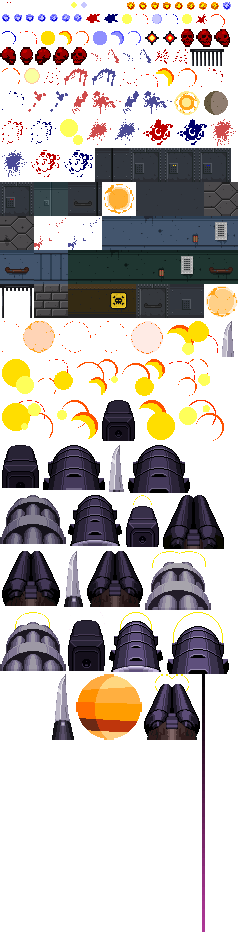
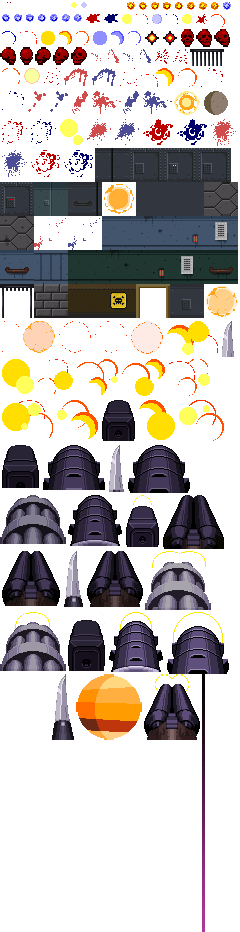
Fixed reverse door shape

Changed region(s): [[0.5542, 0.28, 0.7292, 0.3423]]

diff --git a/src/assets/scripts/components/Game/engine/components/Door/index.js b/src/assets/scripts/components/Game/engine/components/Door/index.js
@@ -240,17 +240,21 @@ class Door extends DynamicCell {
 
   get shape() {
     if (this.axis === 'y') {
+      const offsetX = this.reverse ? this.offset.x : CELL_SIZE - this.offset.x + this.width;
+
       return {
-        x: this.x - HALF_CELL_SIZE + (CELL_SIZE - this.offset.x),
+        x: this.x - HALF_CELL_SIZE + (CELL_SIZE - offsetX),
         y: this.y - HALF_CELL_SIZE + this.offset.y,
         width: this.width,
         length: this.length,
       };
     }
 
+    const offsetY = this.reverse ? this.offset.y : CELL_SIZE - this.offset.y + this.length;
+
     return {
       x: this.x - HALF_CELL_SIZE + this.offset.x,
-      y: this.y - HALF_CELL_SIZE + (CELL_SIZE - this.offset.y),
+      y: this.y - HALF_CELL_SIZE + (CELL_SIZE - offsetY),
       width: this.width,
       length: this.length,
     };

diff --git a/src/assets/scripts/components/Game/constants/config.js b/src/assets/scripts/components/Game/constants/config.js
@@ -6,7 +6,7 @@
  * Debug mode on or off.
  * @type {Boolean}
  */
-export const DEBUG = 1;
+export const DEBUG = 2;
 
 /**
  * Display the frames per second on screen.
